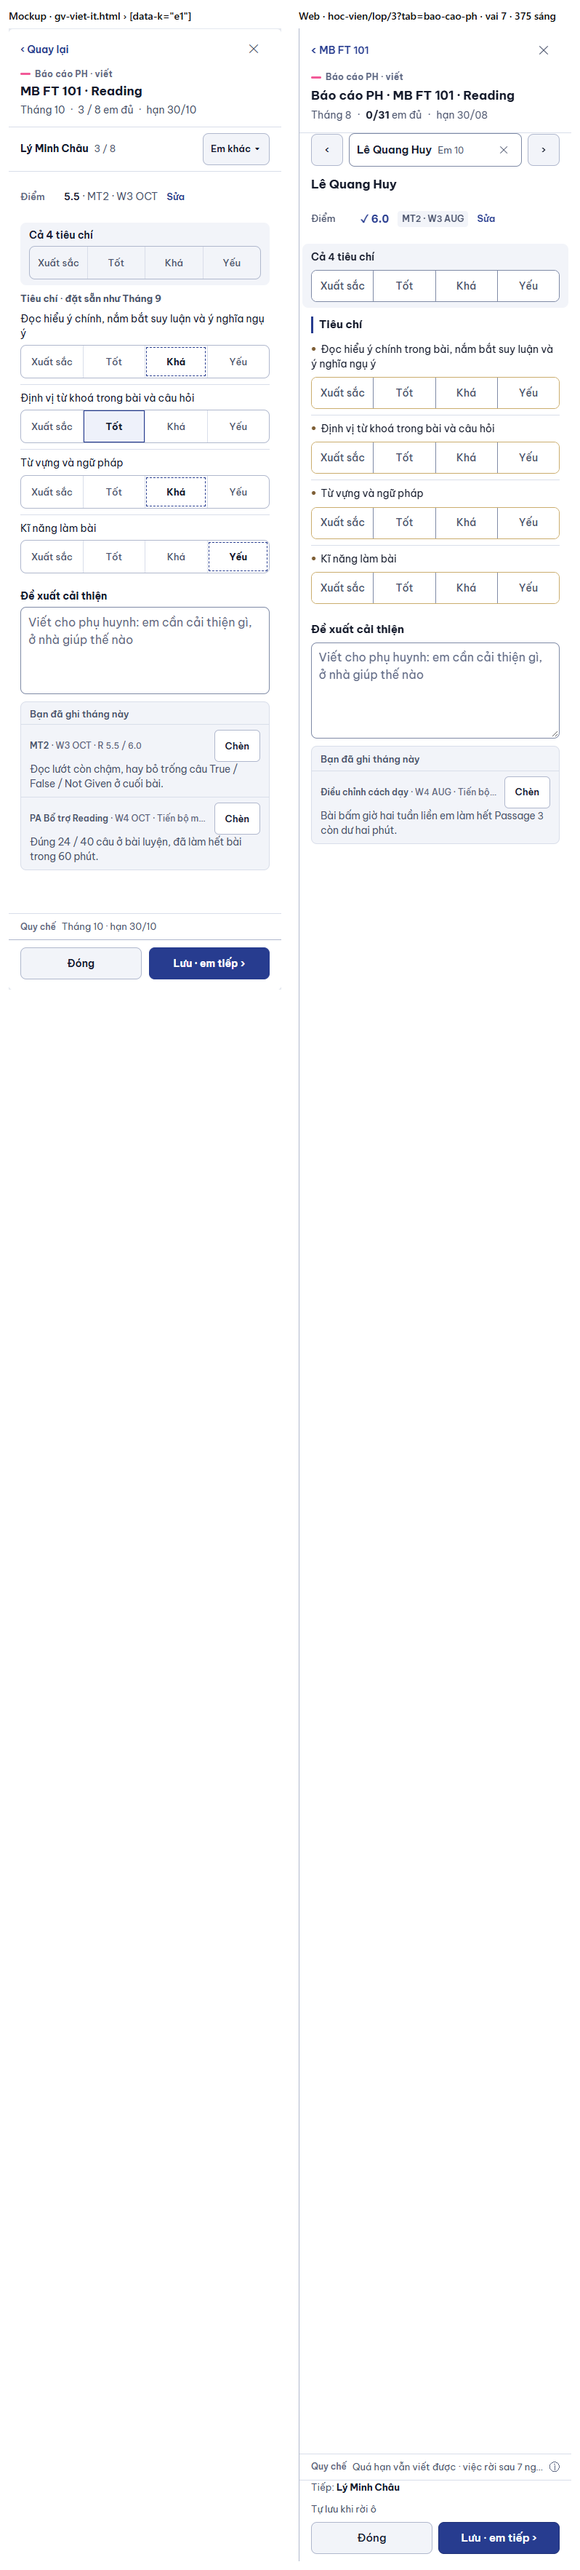
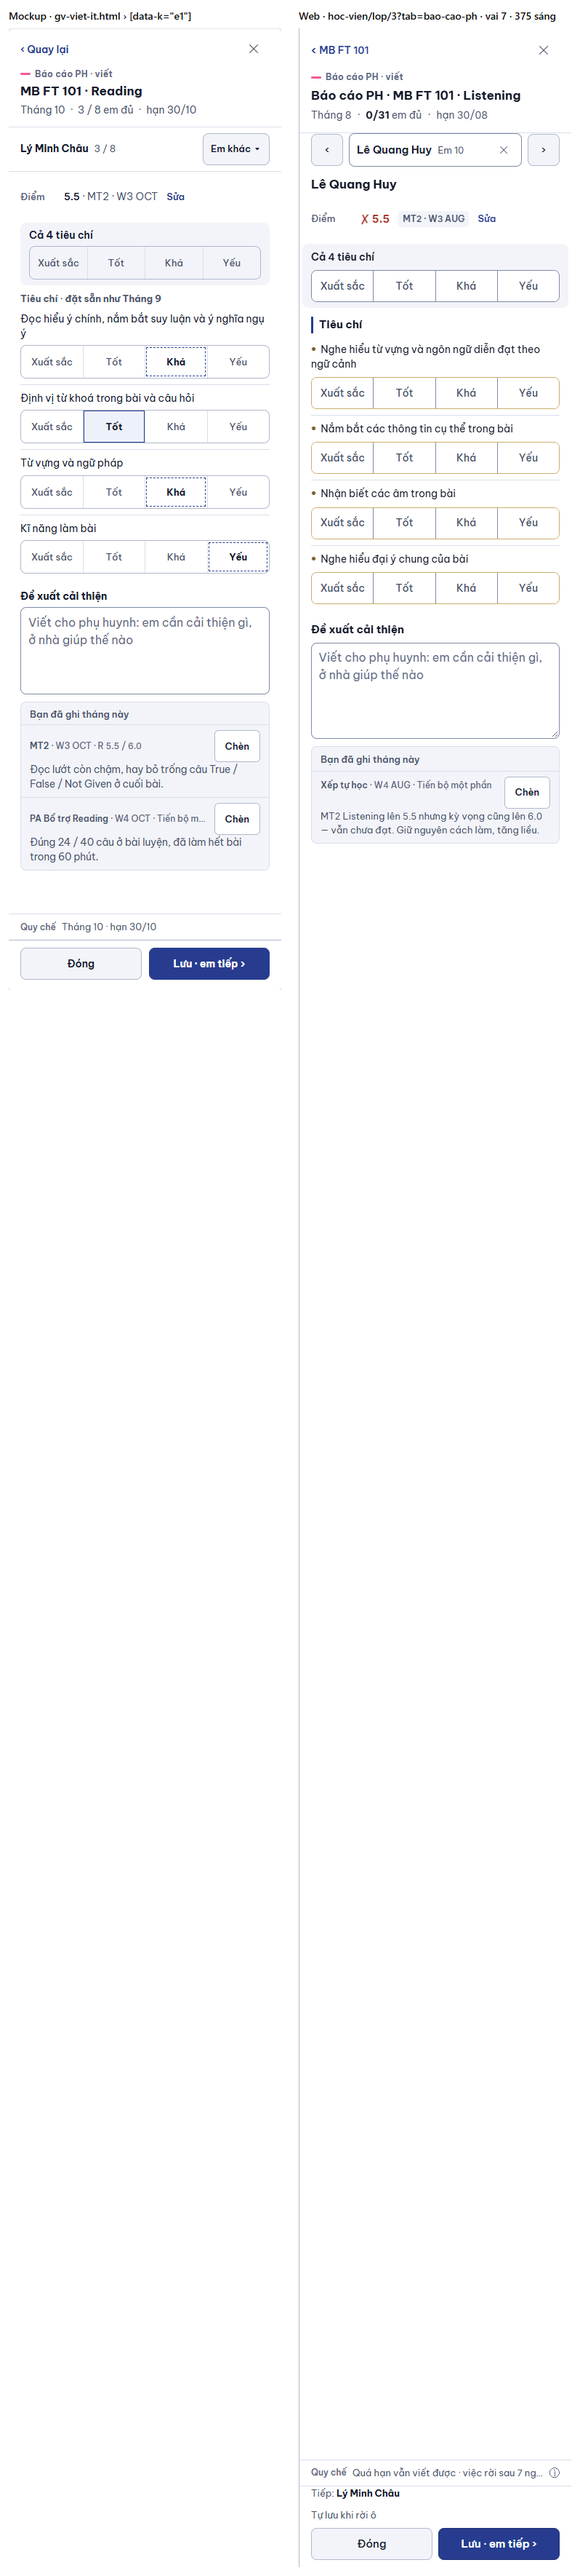
GD-20a (rà PTA): nguồn khối Bạn đã ghi xuống 2 dòng, không cắt; Chèn góc phải trên; chụp lại a1 + e1

diff --git a/web/src/index.css b/web/src/index.css
@@ -1760,8 +1760,9 @@ article.hang-nhom-lop { background: var(--hang-lon-bg); box-shadow: inset 3px 0 
   .duoi-o .da { color: var(--ok); font-weight: 600; }
   .da-ghi { border: 1px solid var(--line); border-radius: 8px; background: var(--surface-2); display: grid; align-content: start; min-width: 0; }
   .da-ghi .dg-dau { display: flex; align-items: baseline; gap: 4px; padding: 8px 12px 6px; font-size: 13px; font-weight: 600; color: var(--text-dim); }
-  .da-ghi .muc { display: grid; grid-template-columns: minmax(0, 1fr) auto; gap: 1px 10px; padding: 7px 12px 8px; border-top: 1px solid var(--line); align-items: center; }
-  .da-ghi .nguon { grid-column: 1; font-size: 12px; font-weight: 500; line-height: 1.4; color: var(--text-faint); min-width: 0; white-space: nowrap; overflow: hidden; text-overflow: ellipsis; }
+  .da-ghi .muc { display: grid; grid-template-columns: minmax(0, 1fr) auto; gap: 1px 10px; padding: 7px 12px 8px; border-top: 1px solid var(--line); align-items: start; }
+  /* PTA rà #1742: nguồn không cắt "…" — xuống tối đa 2 dòng, Chèn giữ góc phải trên. */
+  .da-ghi .nguon { grid-column: 1; font-size: 12px; font-weight: 500; line-height: 1.45; color: var(--text-faint); min-width: 0; overflow: hidden; display: -webkit-box; -webkit-line-clamp: 2; -webkit-box-orient: vertical; overflow-wrap: anywhere; padding-top: 3px; }
   .da-ghi .nguon b { font-weight: 600; color: var(--text-dim); }
   .da-ghi .cau { grid-column: 1 / -1; font-size: 13px; line-height: 1.45; color: var(--text-dim); display: -webkit-box; -webkit-line-clamp: 3; -webkit-box-orient: vertical; overflow: hidden; overflow-wrap: anywhere; }
   .da-ghi .nut-chen, .da-ghi .mo { grid-column: 2; grid-row: 1; height: 26px; padding: 0 10px; border-radius: 6px; border: 1px solid var(--line-strong); background: var(--surface); font-size: 13px; font-weight: 600; color: var(--text); cursor: pointer; }

diff --git a/docs/anh/gd20a-bao-ph-goi-y/khop-khac.md b/docs/anh/gd20a-bao-ph-goi-y/khop-khac.md
@@ -3,10 +3,10 @@
 ## Ảnh cặp (trái mockup │ phải web; demo 14/09, GV 7 Trần Ngọc Hà, MB FT 101 · Tháng 8; `scripts/anh-cap.mjs`, Edge headless 1:1, phông Be Vietnam Pro đã nạp)
 | Ảnh | Khung | Trạng thái web |
 |---|---|---|
-| `cap-1440-toi-a1.png` | A1 | Reading · Lê Quang Huy · ô trống, khối mở, một câu kết quả PA + Chèn |
+| `cap-1440-toi-a1.png` | A1 | Listening · Lê Quang Huy · ô trống, khối mở, câu kết quả PA (nguồn dài, xuống 2 dòng — không cắt) + Chèn |
 | `cap-1440-toi-a5.png` | A5 | Nhận xét chung · Phạm Bảo Ngọc · xử lý Report 1 + 3 vi phạm (người khác ghi có "· {tên} ghi") |
 | `cap-1440-toi-a6.png` | A6 | Listening · Lê Quang Huy · ô đã có chữ → khối gập "Bạn đã ghi tháng này · 1 · Xem" |
-| `cap-375-sang-e1.png` | E1 | 375 sáng · Reading · khối dưới ô, Chèn 44 px, chân Đóng · Lưu · em tiếp › |
+| `cap-375-sang-e1.png` | E1 | 375 sáng · Listening · Lê Quang Huy · khối dưới ô, nguồn đủ chữ, Chèn 44 px, chân Đóng · Lưu · em tiếp › |
 
 A2 (sau Chèn), A3 (không có câu), A4 (đang tải / lỗi) bấm thử trên trình duyệt (mục "Bấm thử"), không chụp riêng vì cùng thành phần.
 
@@ -32,11 +32,16 @@ A2 (sau Chèn), A3 (không có câu), A4 (đang tải / lỗi) bấm thử trên
 KHỚP 13 / 14 dòng (dòng 14 là thành phần cũ giữ nguyên, chủ SP duyệt GD-5). Cổng ≥ 90 % đạt khi tính dòng GIỮ là khớp chức năng.
 
 ## KHÁC (có lý do)
-1. **Câu vừa chèn không tô nhẹ trong ô.** Ô là `textarea` gốc — không tô được một đoạn; đổi sang ô rich text là đổi thành phần ô của cả Báo cáo PH (ngoài phạm vi). Phản hồi thay: dòng "✓ Đã chèn câu … · Hoàn tác chèn" dưới ô + "✓ Đã chèn" ở khối. [XM-a] hỏi PTA Plan nếu cần tô.
-2. **Nguồn MT chỉ có band, không "/ kỳ vọng"** (mockup "R 5.5 / 6.0"). Kỳ vọng của lượt cần đọc thêm (lộ trình + bảng kỳ vọng) — đường này giữ 4 câu theo trần LG-13. Điểm + ✓ / ✗ kỳ vọng đã có ở dòng "Điểm" ngay trên. [XM-b].
+1. **[XM-a] PTA chốt: đồng ý.** **Câu vừa chèn không tô nhẹ trong ô.** Ô là `textarea` gốc — không tô được một đoạn; đổi sang ô rich text là đổi thành phần ô của cả Báo cáo PH (ngoài phạm vi). Phản hồi thay: dòng "✓ Đã chèn câu … · Hoàn tác chèn" dưới ô + "✓ Đã chèn" ở khối. [XM-a] hỏi PTA Plan nếu cần tô.
+2. **[XM-b] PTA: thêm nếu 0 câu — không lấy được nên giữ.** **Nguồn MT chỉ có band, không "/ kỳ vọng"** (mockup "R 5.5 / 6.0"): kỳ vọng không phải cột của ô điểm — tính từ lộ trình + bảng kỳ vọng theo lượt (`ketLuanKyVong`), phải đọc thêm. Kỳ vọng của lượt cần đọc thêm (lộ trình + bảng kỳ vọng) — đường này giữ 4 câu theo trần LG-13. Điểm + ✓ / ✗ kỳ vọng đã có ở dòng "Điểm" ngay trên. [XM-b].
 3. **375 chọn em = ô chọn có tìm + ‹ ›** (GD-5, R5.2 #48 đã duyệt) thay nút "Em khác ▾" của mockup — giữ thao tác cũ.
 4. **Nguồn vi phạm không ghi bậc ("REPORT 1"), tình hình không ghi "· đã gửi TVV".** Bậc nằm ở dòng xử lý riêng ("Report 1 · W1 AUG"); tình hình ghi người gửi — đủ để GV biết nguồn, không thêm câu đọc.
 5. Chữ gợi ý trong ô không kết thúc "…" (web-design-guidelines khuyên) — giữ đúng chữ mockup đã duyệt.
+
+## Sửa sau rà PTA (#1742)
+- Dòng nguồn không cắt "…": xuống tối đa 2 dòng, nút Chèn / "✓ Đã chèn" giữ góc phải trên (`.da-ghi .muc` canh trên). Chụp lại a1 + e1.
+- Dòng quy chế 375 còn "…": chờ #1738 (`DongQuyChe`) merge rồi gộp main — không sửa ở PR này.
+- Ảnh a1 / e1 dùng phần L: dữ liệu demo cục bộ của GD-20b (việc đổi GV) chuyển R của MB FT 101 sang GV 9.
 
 ## Thao tác TRƯỚC → SAU (không mất thao tác)
 | Thao tác | TRƯỚC (#1719) | SAU | Ghi chú |
